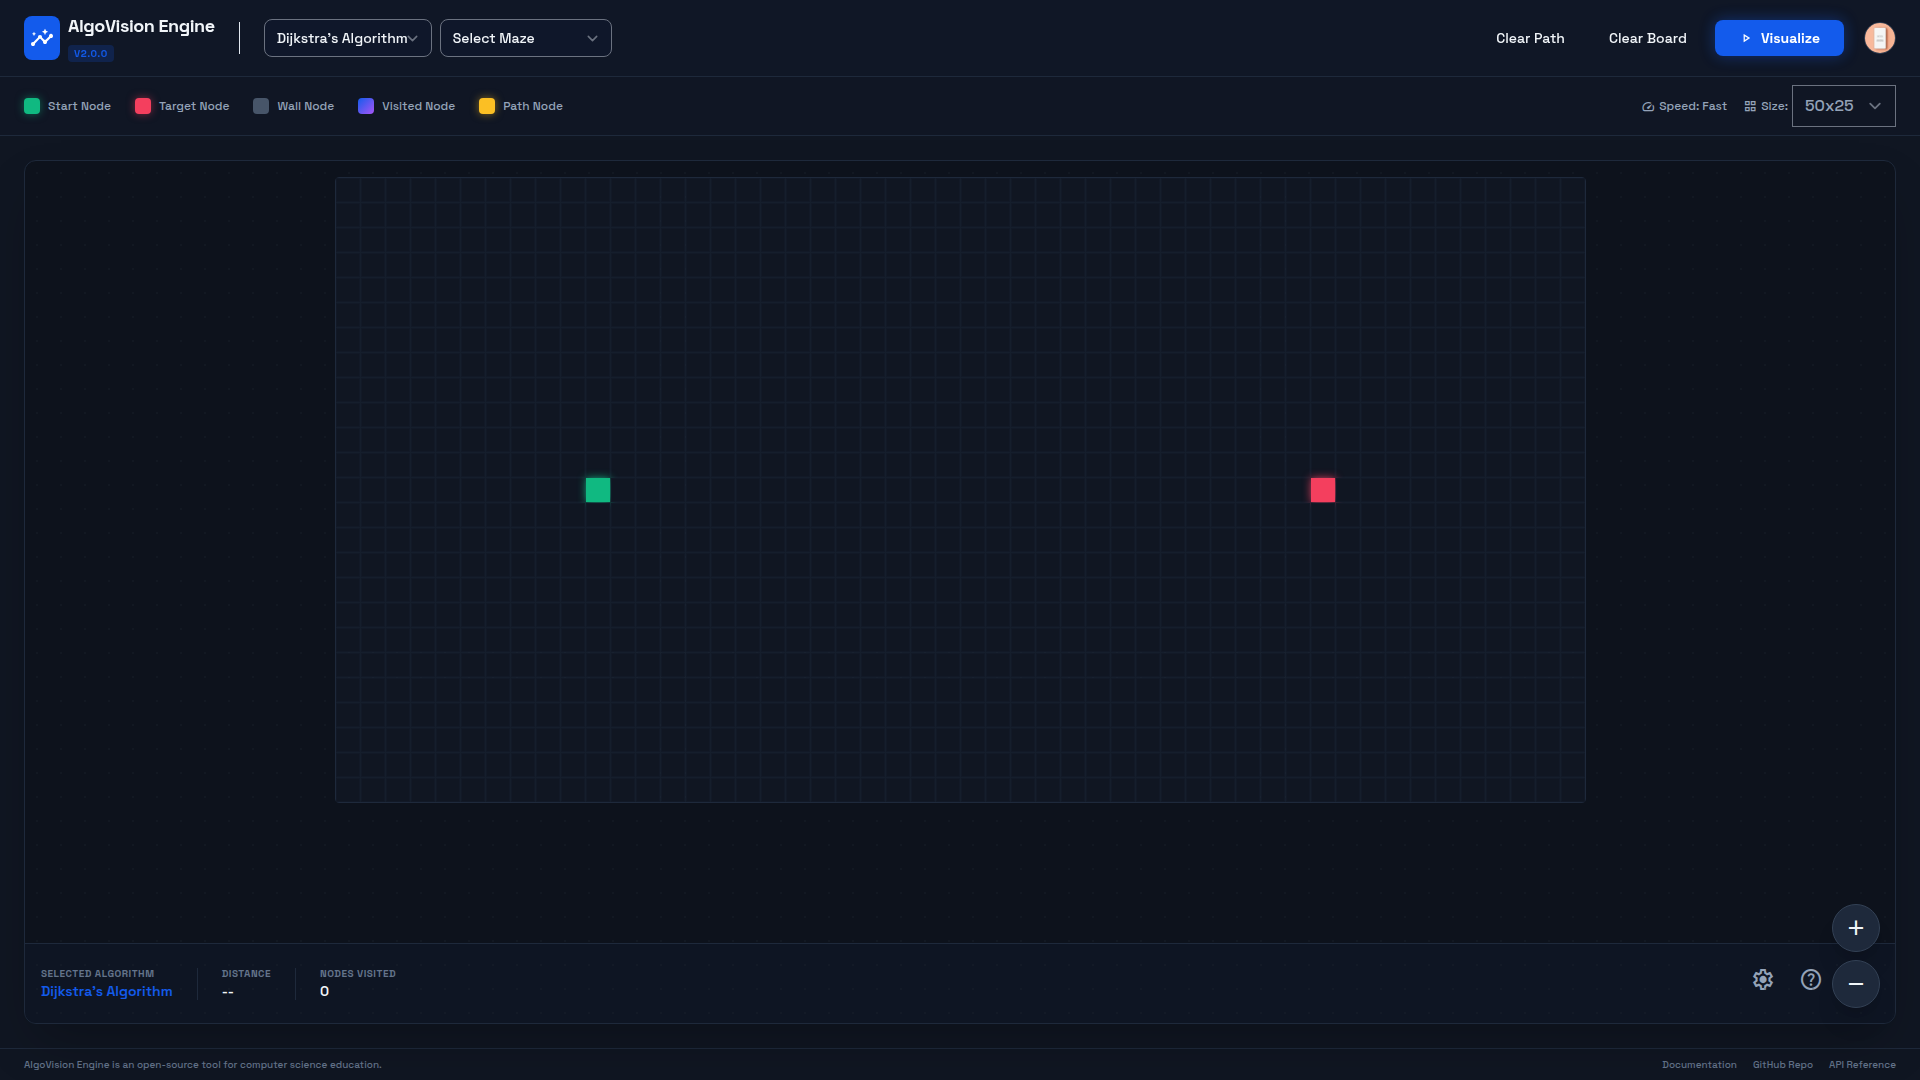
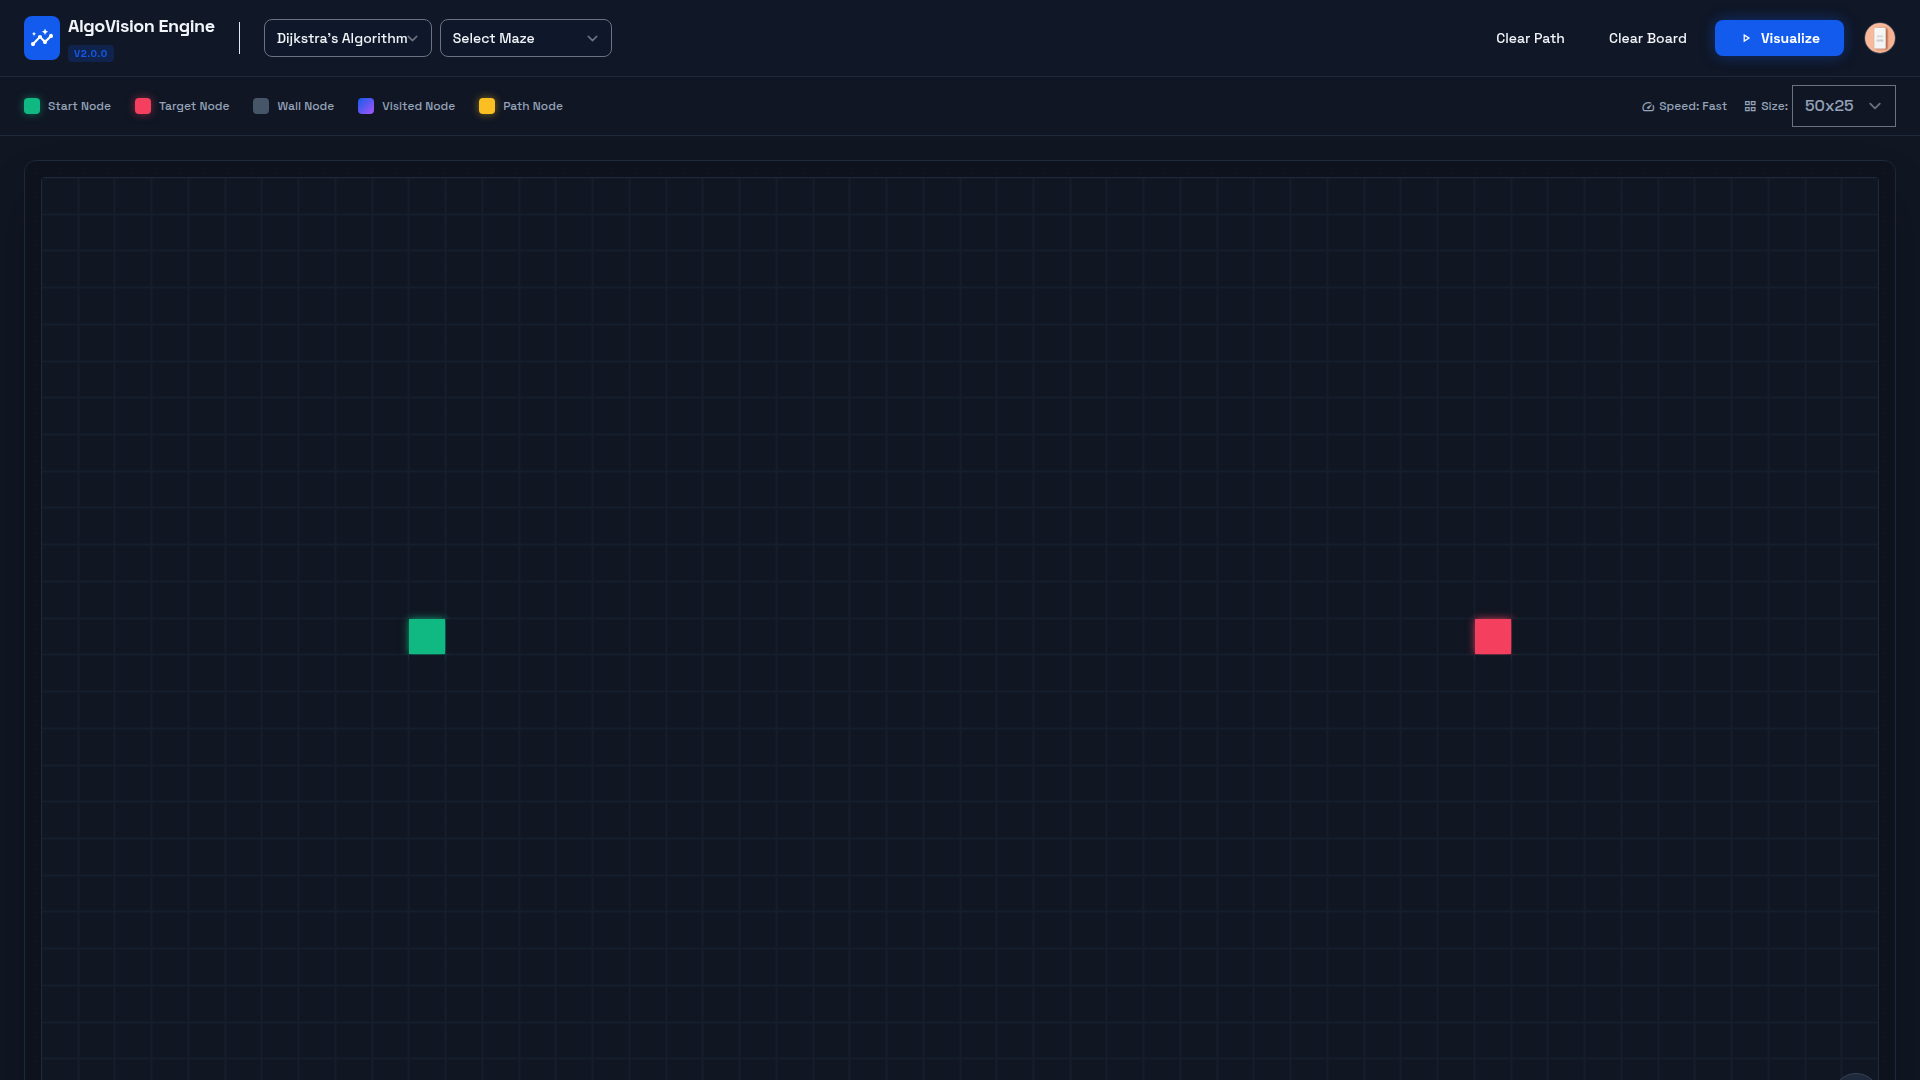
fix: fully apply stitch design and restore responsive grid behavior

diff --git a/script.js b/script.js
@@ -21,6 +21,10 @@ function initializeGrid() {
     const gridContainer = document.getElementById('grid-container');
     gridContainer.style.gridTemplateColumns = `repeat(${COLS}, minmax(0, 1fr))`;
     gridContainer.style.gridTemplateRows = `repeat(${ROWS}, minmax(0, 1fr))`;
+    gridContainer.style.aspectRatio = `${COLS} / ${ROWS}`;
+    gridContainer.style.height = '100%';
+    gridContainer.style.aspectRatio = `${COLS} / ${ROWS}`;
+    gridContainer.style.height = '100%';
     gridContainer.innerHTML = '';
     grid = [];
 
@@ -37,7 +41,7 @@ function initializeGrid() {
             const nodeElement = document.createElement('div');
             nodeElement.id = nodeId;
             // Removed transition-colors to make dragging faster/more responsive
-            nodeElement.className = 'w-6 h-6 bg-white dark:bg-background-dark border border-slate-100 dark:border-slate-800/20 flex items-center justify-center cursor-pointer flex-shrink-0';
+            nodeElement.className = 'w-full h-full bg-white dark:bg-background-dark border border-slate-100 dark:border-slate-800/20 flex items-center justify-center cursor-pointer';
             
             if (row === START_NODE.row && col === START_NODE.col) {
                 nodeElement.classList.add('node-start');
@@ -162,13 +166,13 @@ function clearPath() {
             node.distance = Infinity;
             node.previousNode = null;
             if (!node.isStart && !node.isEnd && !node.isWall) {
-                element.className = 'w-6 h-6 bg-white dark:bg-background-dark border border-slate-100 dark:border-slate-800/20 flex items-center justify-center cursor-pointer flex-shrink-0';
+                element.className = 'w-full h-full bg-white dark:bg-background-dark border border-slate-100 dark:border-slate-800/20 flex items-center justify-center cursor-pointer transition-colors';
             } else if (node.isStart) {
-                element.className = 'w-6 h-6 bg-white dark:bg-background-dark border border-slate-100 dark:border-slate-800/20 flex items-center justify-center cursor-pointer flex-shrink-0 node-start';
+                element.className = 'w-full h-full bg-white dark:bg-background-dark border border-slate-100 dark:border-slate-800/20 flex items-center justify-center cursor-pointer transition-colors node-start';
             } else if (node.isEnd) {
-                element.className = 'w-6 h-6 bg-white dark:bg-background-dark border border-slate-100 dark:border-slate-800/20 flex items-center justify-center cursor-pointer flex-shrink-0 node-end';
+                element.className = 'w-full h-full bg-white dark:bg-background-dark border border-slate-100 dark:border-slate-800/20 flex items-center justify-center cursor-pointer transition-colors node-end';
             } else if (node.isWall) {
-                element.className = 'w-6 h-6 bg-white dark:bg-background-dark border border-slate-100 dark:border-slate-800/20 flex items-center justify-center cursor-pointer flex-shrink-0 node-wall';
+                element.className = 'w-full h-full bg-white dark:bg-background-dark border border-slate-100 dark:border-slate-800/20 flex items-center justify-center cursor-pointer transition-colors node-wall';
             }
         }
     }

diff --git a/index.html b/index.html
@@ -119,8 +119,8 @@
 <main class="flex-grow p-6 relative flex flex-col">
 <div class="flex-grow bg-white dark:bg-[#0d121c] rounded-xl border border-slate-200 dark:border-slate-800 shadow-2xl relative overflow-hidden flex flex-col">
 <div class="absolute inset-0 grid-mesh opacity-20 pointer-events-none"></div>
-<div class="relative flex-grow p-4 overflow-auto" id="grid-wrapper">
-<div id="grid-container" class="grid gap-[1px] bg-slate-200 dark:bg-slate-800/50 rounded border border-slate-200 dark:border-slate-800 w-max h-max mx-auto my-auto origin-center transition-transform duration-200"></div>
+<div class="relative flex-grow p-4 flex items-center justify-center overflow-hidden" id="grid-wrapper">
+<div id="grid-container" class="grid gap-[1px] bg-slate-200 dark:bg-slate-800/50 rounded overflow-hidden border border-slate-200 dark:border-slate-800 w-full max-w-full max-h-full mx-auto my-auto transition-transform duration-200"></div>
 </div>
 <div class="bg-slate-50 dark:bg-slate-900/50 border-t border-slate-200 dark:border-slate-800 p-4 flex items-center justify-between">
 <div class="flex items-center gap-6">

diff --git a/style.css b/style.css
@@ -64,3 +64,5 @@
         transform: scale(1);
     }
 }
+
+#grid-wrapper { display: flex; align-items: center; justify-content: center; height: 100%; width: 100%; }
